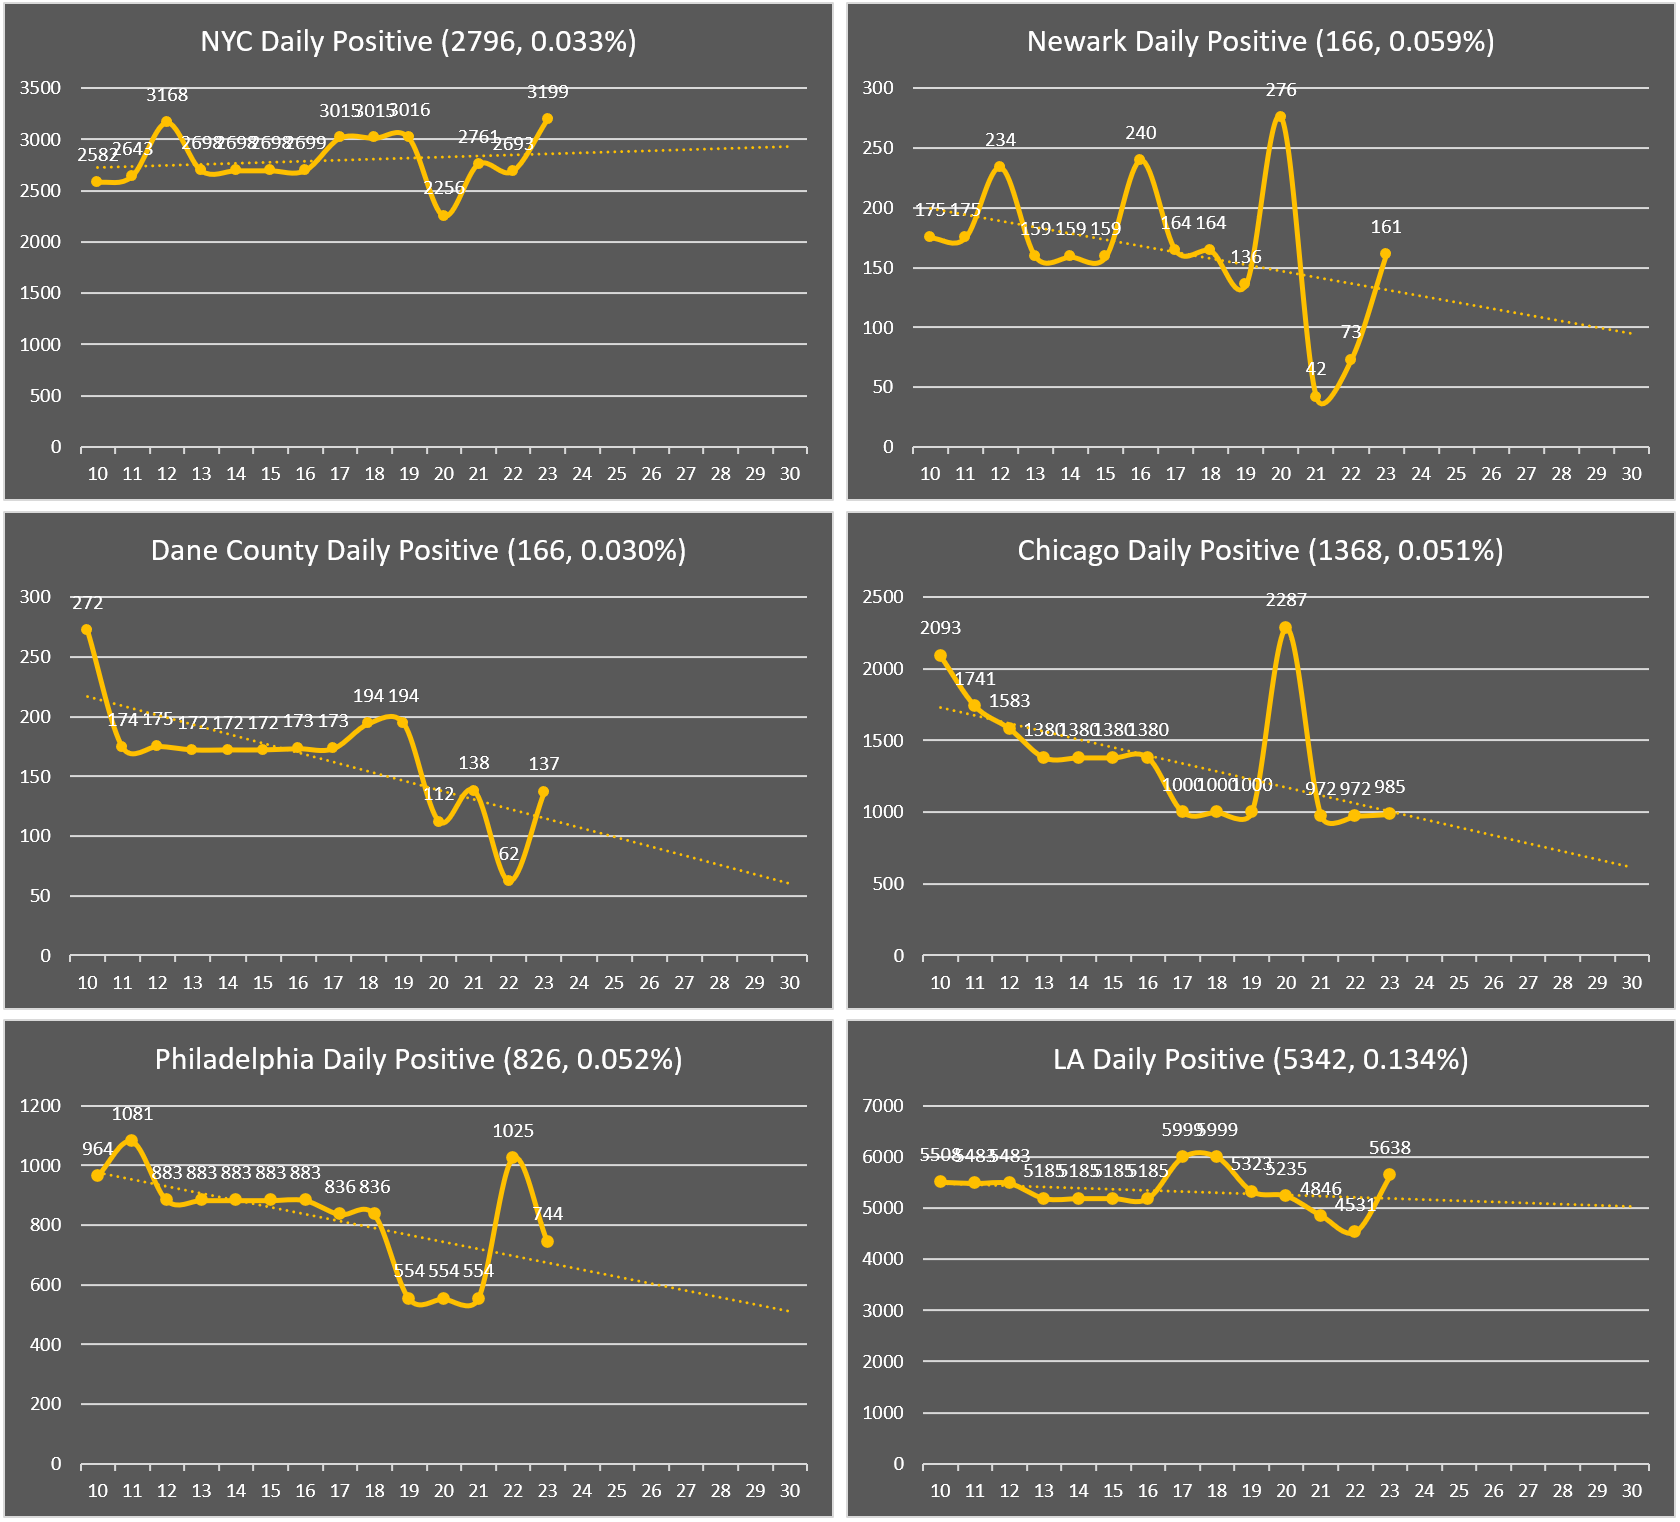
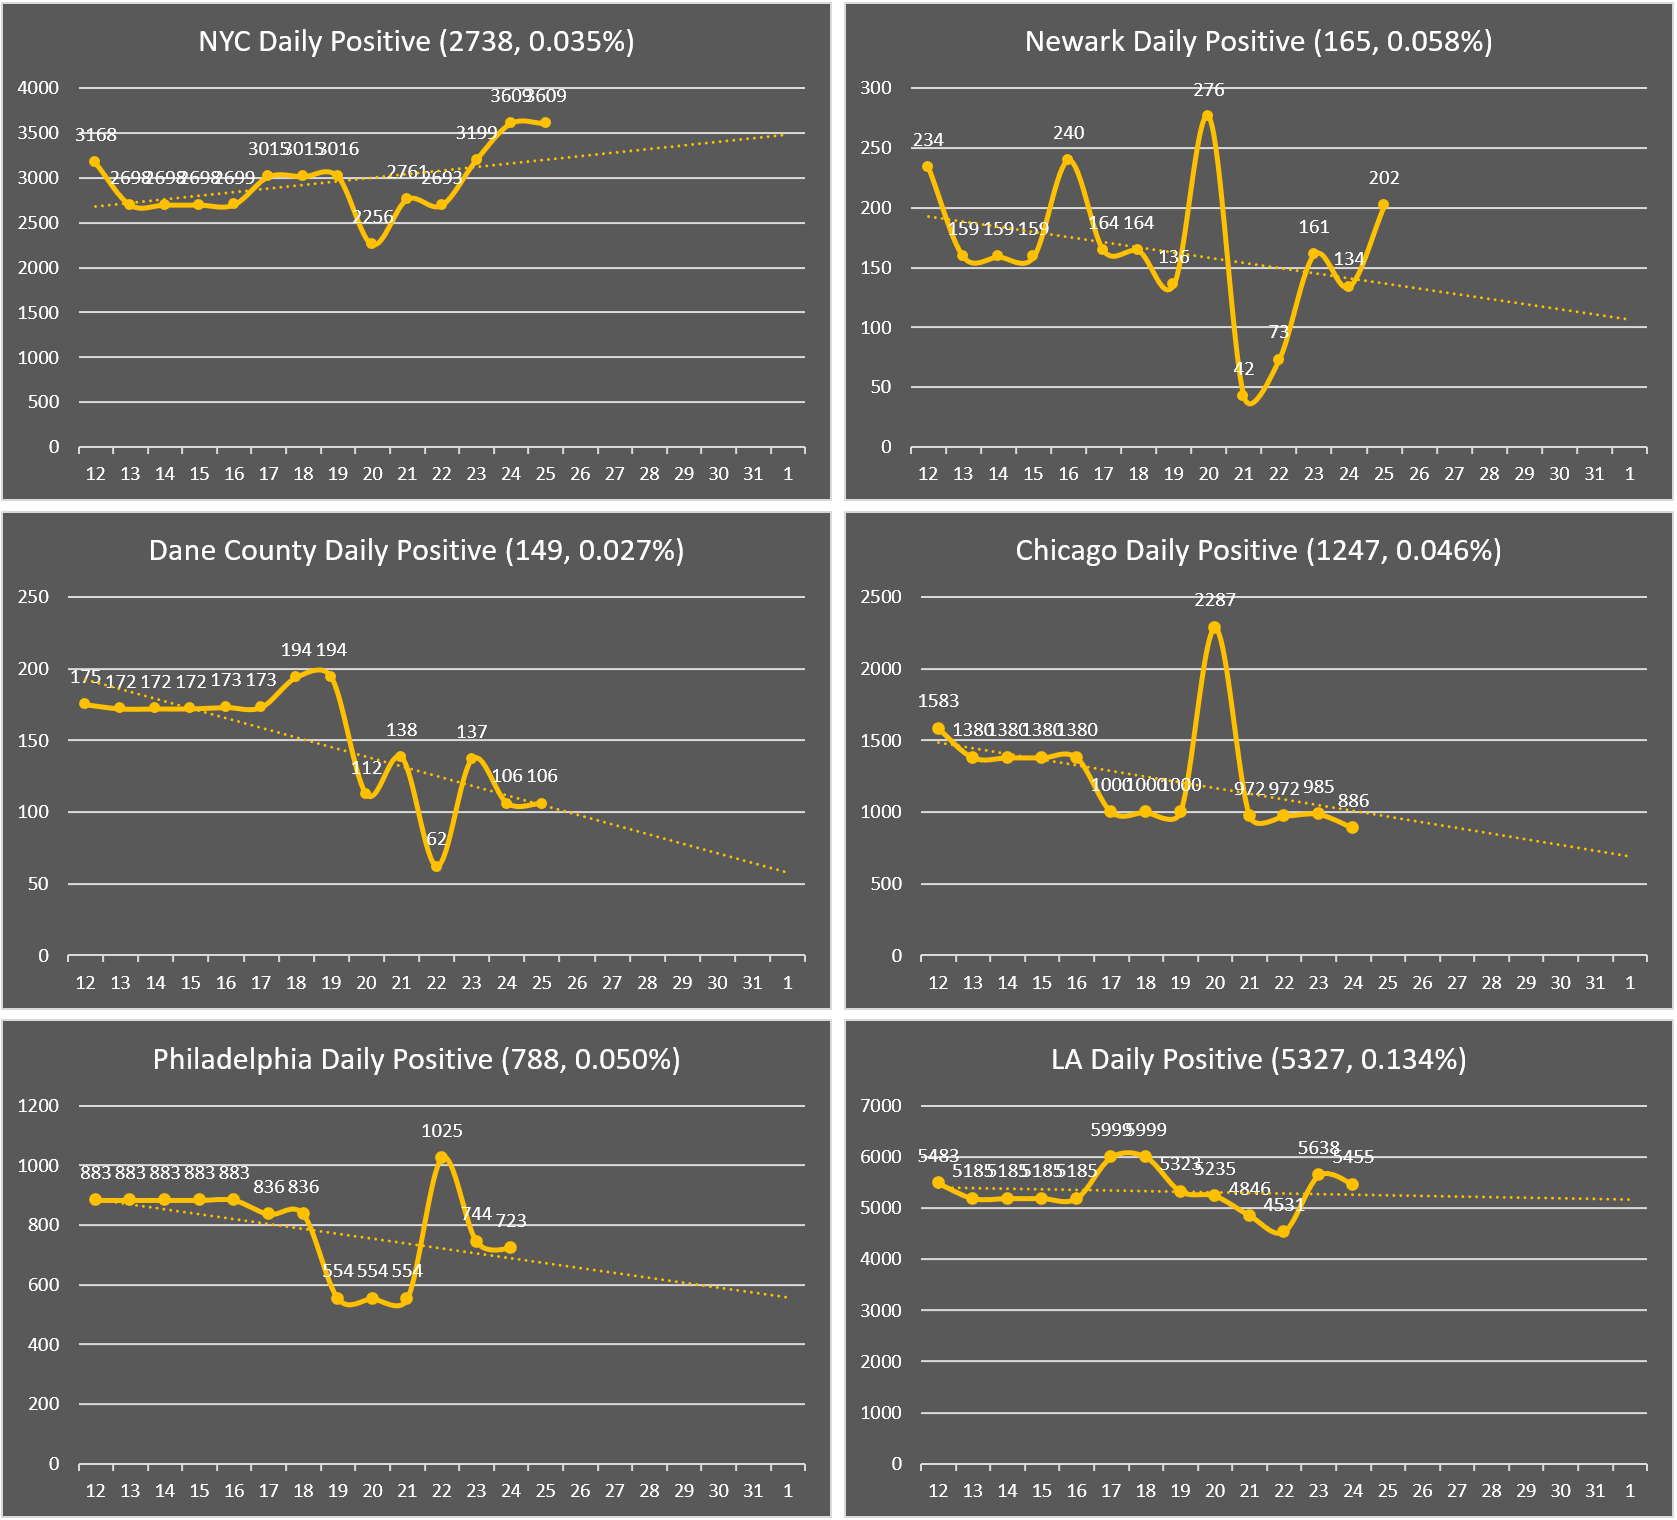
update 12/25 status

diff --git a/index.html b/index.html
@@ -19,7 +19,7 @@
 
 <body class="container-fluid">
 	<h1> CoronaV for Friends</h1>
-	<h2> Data updated at Dec 23 2020 EST 21:45</h2>
+	<h2> Data updated at Dec 25 2020 EST 22:05</h2>
 	<hr>
 	<main>
 		<div class="row">
